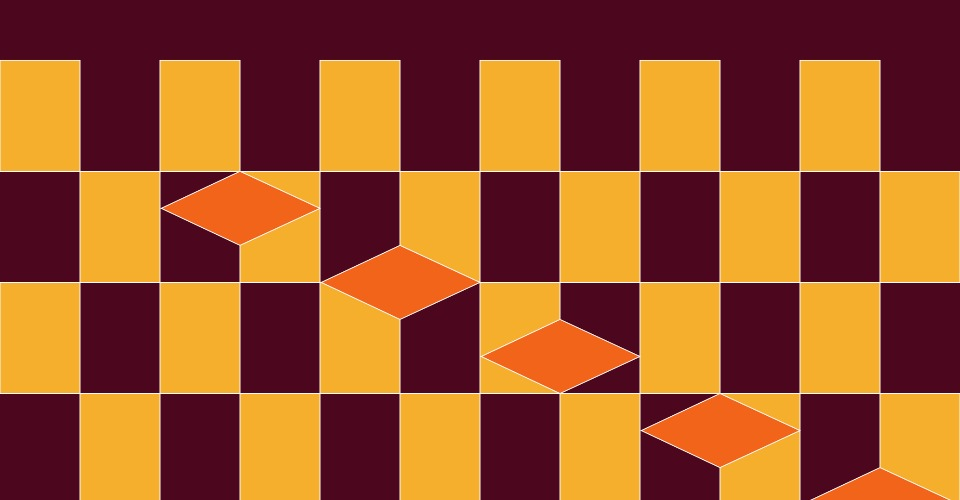
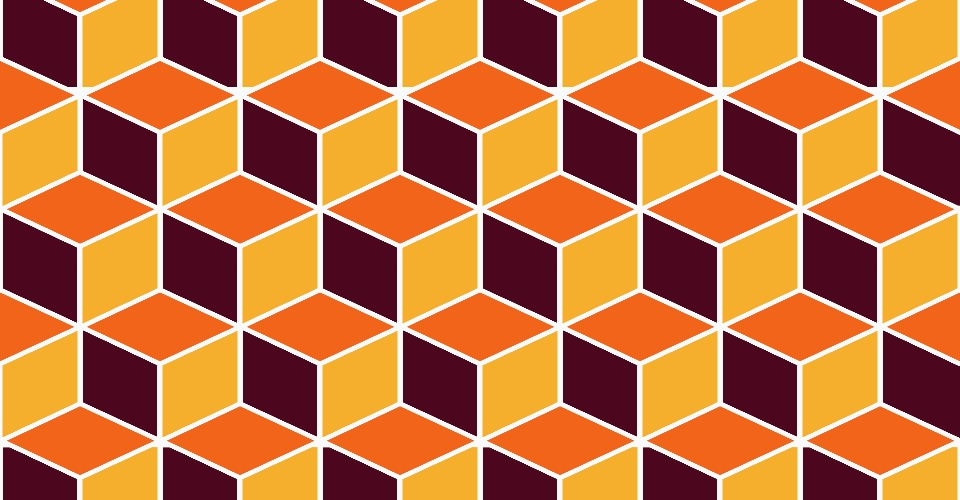
seee read.me

diff --git a/draw_one_frame.js b/draw_one_frame.js
@@ -16,10 +16,10 @@ function draw_one_frame(cur_frac) {
 	///////////////////////////////////////////
 
 	let rectSize = width / 12 // 
-	let rectSize2 = width / 8
+	let rectSize2 = width / 7.5 // 8 STUPID
 	let SpaceSize = width /6
-	let SpaceSize2 = width/6 +0.5 // this is used for other loops in order to get the size just right, and so that it fits in the different formats of sizing.
-	let spaceSize3 = width / 4 // same here
+	let SpaceSize2 = width/12+0.5 // 6 + 0.4? this is used for other loops in order to get the size just right, and so that it fits in the different formats of sizing.
+	let spaceSize3 = width / 3.75 // 4 same here STUPID
 
 	let quadX1Size = width/6 // I have to create varibles for all the quad points otherwise the size doesnt work in the different formats
 	let quadY1Size = width/12
@@ -29,6 +29,9 @@ function draw_one_frame(cur_frac) {
 	let quadY3Size = width/24
 	let quadX4Size = width/768
 	let quadY4Size = width/12
+
+	let quadOffsetX = -80
+	let quadOffsetY = 127
 	///////////////////////////////////////////
 
 	let Keyframes = [ // used for a for loop but doesn't seem to do anything
@@ -63,10 +66,11 @@ let movingUpMap = map(cur_frac, 0,1,0.5, 2.5)
 
 fill(Leftcolor) // yellow Squares
 stroke(250)
+strokeWeight(5)
 for(let i=0; i<5; i++) {
-    let upwards_extension = map(movingUpMap, 2.5, 0.5, Keyframes[i], Keyframes[i+1]) //2.5, 0.5
+    let upwards_extension = map(cur_frac, 2.5, 0.5525, Keyframes[0], Keyframes[1]) //2.5, 0.5 Keyframes[i], Keyframes[i+1]
 	for( let across = 0; across < width / SpaceSize; across++){
-		for( let down = 0; down < height / SpaceSize; down++){
+		for( let down = -0.75; down < height / SpaceSize; down++){
 			let noiseColor = getNoiseValue(SpaceSize*across,SpaceSize*down,0.8, "noiseColor",0,3)
 		//rect(SpaceSize*across,SpaceSize*down-25, rectSize, rectSize)
 		//rect(SpaceSize*across + 80,SpaceSize*down+55, rectSize, rectSize)
@@ -79,9 +83,9 @@ for(let i=0; i<5; i++) {
 	
 fill(Leftcolor); // yellow squares but checkboarded. Basically the diagonal ones.
 for(let i=0; i<5; i++) {
-    let upwards_extension = map(movingUpMap, 2.5, 0.5, Keyframes[i], Keyframes[i+1]) // 2.5, 0.5
+    let upwards_extension = map(cur_frac, 2.5, 0.5525, Keyframes[0], Keyframes[1]) // 2.5, 0.5, Keyframes[i], Keyframes[i+1]
 for( let across= -0.5 ; across < width / SpaceSize2; across++){ // 0.5 for angle
-	for( let down = -0.5; down < height / SpaceSize2; down++){
+	for( let down = -1.25; down < height / SpaceSize2; down++){
 		let noiseColor = getNoiseValue(SpaceSize*across,SpaceSize*down,0.8, "noiseColor",0,3) // for later perhaps
 		
 			rect(SpaceSize*across ,spaceSize3*down+ upwards_extension, rectSize, rectSize2)
@@ -96,17 +100,17 @@ fill(Rightcolor); //quads,
 //for (let i = 1; i<Keyframes.length; i++){ // trying to use the OG map but doesn't work
 for(let i=0; i<5; i++) {
 
-    let upwards_extension = map(cur_frac, 2.5, 0.5, Keyframes[i], Keyframes[i+1])
+    let upwards_extension = map(cur_frac, 2.5, 0.5, Keyframes[0], Keyframes[1]) // map(cur_frac, 2.5, 0.5, Keyframes[0], Keyframes[1])
 
 	for( let across= 0; across < width / SpaceSize2; across++){
-		for( let down = 0; down < height / SpaceSize; down++){
+		for( let down = -1.5; down < height / SpaceSize; down++){
 			let noiseColor = getNoiseValue(SpaceSize*across,SpaceSize*down,0.8, "noiseColor",0,3)
 
-			push()
-			translate(75,-350)
+			// push()
+			// translate(75,-350)
 			push();
 			//translate(-80, -40); // -80,-40
-			translate(across * 150, down * 225)
+			translate(across * 160, down * 250)
 			//Draw_quad(SpaceSize*across,SpaceSize*down,0) **** This was when i tried to use translate in multiple functions. An idea to come back too
 				quad(quadX2Size , quadY2Size + upwards_extension,quadX1Size, quadY1Size + upwards_extension,quadX3Size ,quadY3Size + upwards_extension, quadX4Size, quadY4Size + upwards_extension)	
 				pop();
@@ -117,13 +121,13 @@ for(let i=0; i<5; i++) {
 				//translate(0,0); // 0,0 
 				//quad(quadX2Size, quadY2Size,quadX1Size, quadY1Size,quadX3Size,quadY3Size, quadX4Size, quadY4Size);
 				push()
-				translate(-75,120)
+				translate(quadOffsetX,quadOffsetY) // -75, 120
 				push()
-				translate(across * 150, down * 200); // -80,-40
+				translate(across * 160, down *250); // -80,-40
 					quad(quadX2Size , quadY2Size + upwards_extension,quadX1Size, quadY1Size + upwards_extension,quadX3Size ,quadY3Size + upwards_extension, quadX4Size, quadY4Size + upwards_extension)	
 					pop();
 					pop();
-					pop();
+					// pop();
 				
 				
 	}
